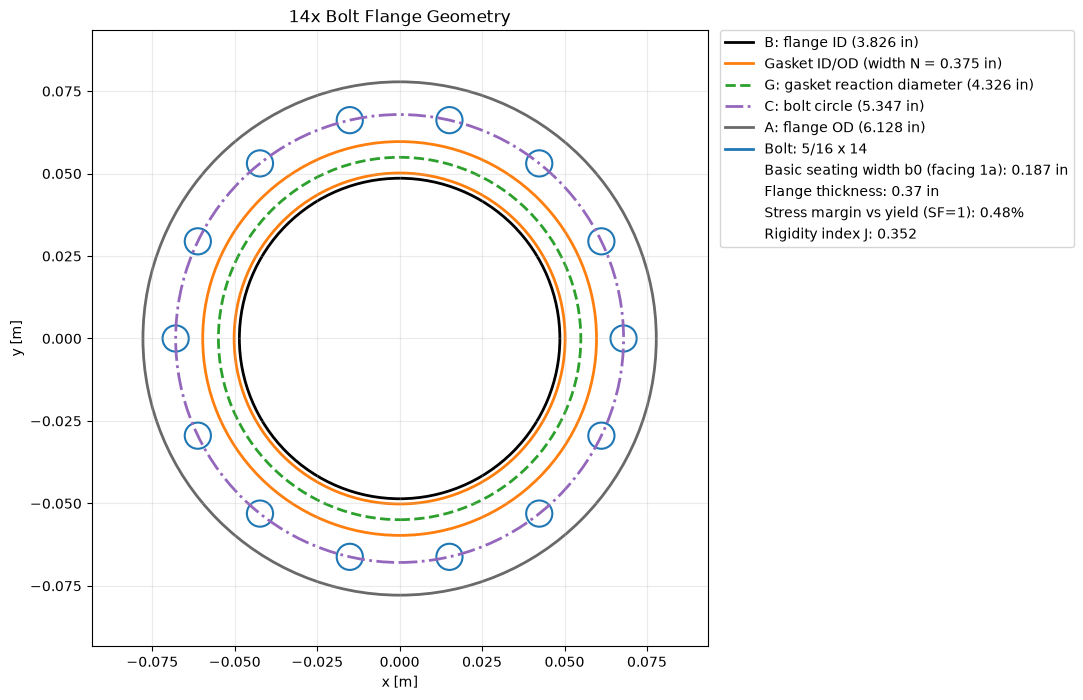
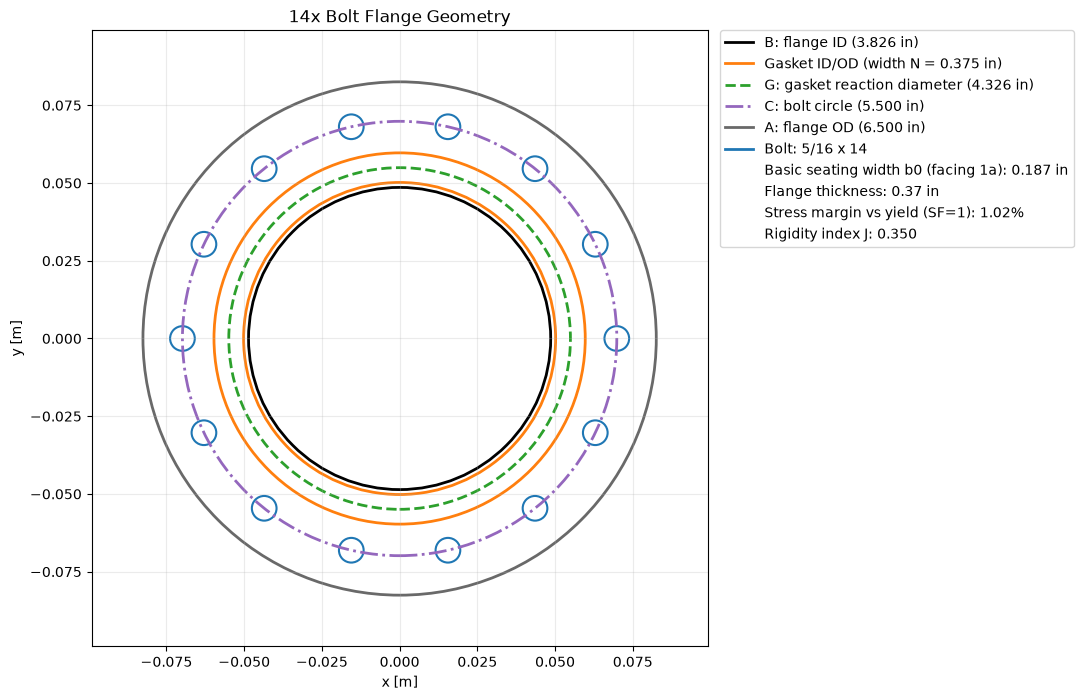
a

diff --git a/MARLIN V2/Tenkara/4 - Subteams/TCA/Development/flange/flange_analysis.py b/MARLIN V2/Tenkara/4 - Subteams/TCA/Development/flange/flange_analysis.py
@@ -86,7 +86,7 @@ def analyze_flange(B, N, G, C, A, bolt_name, bolt_count, t, g0, g1,
     hT = (R + g1 + hG) / 2
     MT = HT * hT
 
-    W = (Am + Ab) * Sa_used / 2
+    W = Am * Sa_used / 2  # Set to
     Mseating = W * (C - G) / 2
 
     Moperating = MD + MT + MG
@@ -194,8 +194,8 @@ def main():
     g1 = g0 # equal for straight integral flange
 
     # Bolts
-    bolt_name = "1/4"
-    bolt_count = 18
+    bolt_name = "5/16"
+    bolt_count = 14
     thread_type = "UNF"
 
     # working chamber pressure
